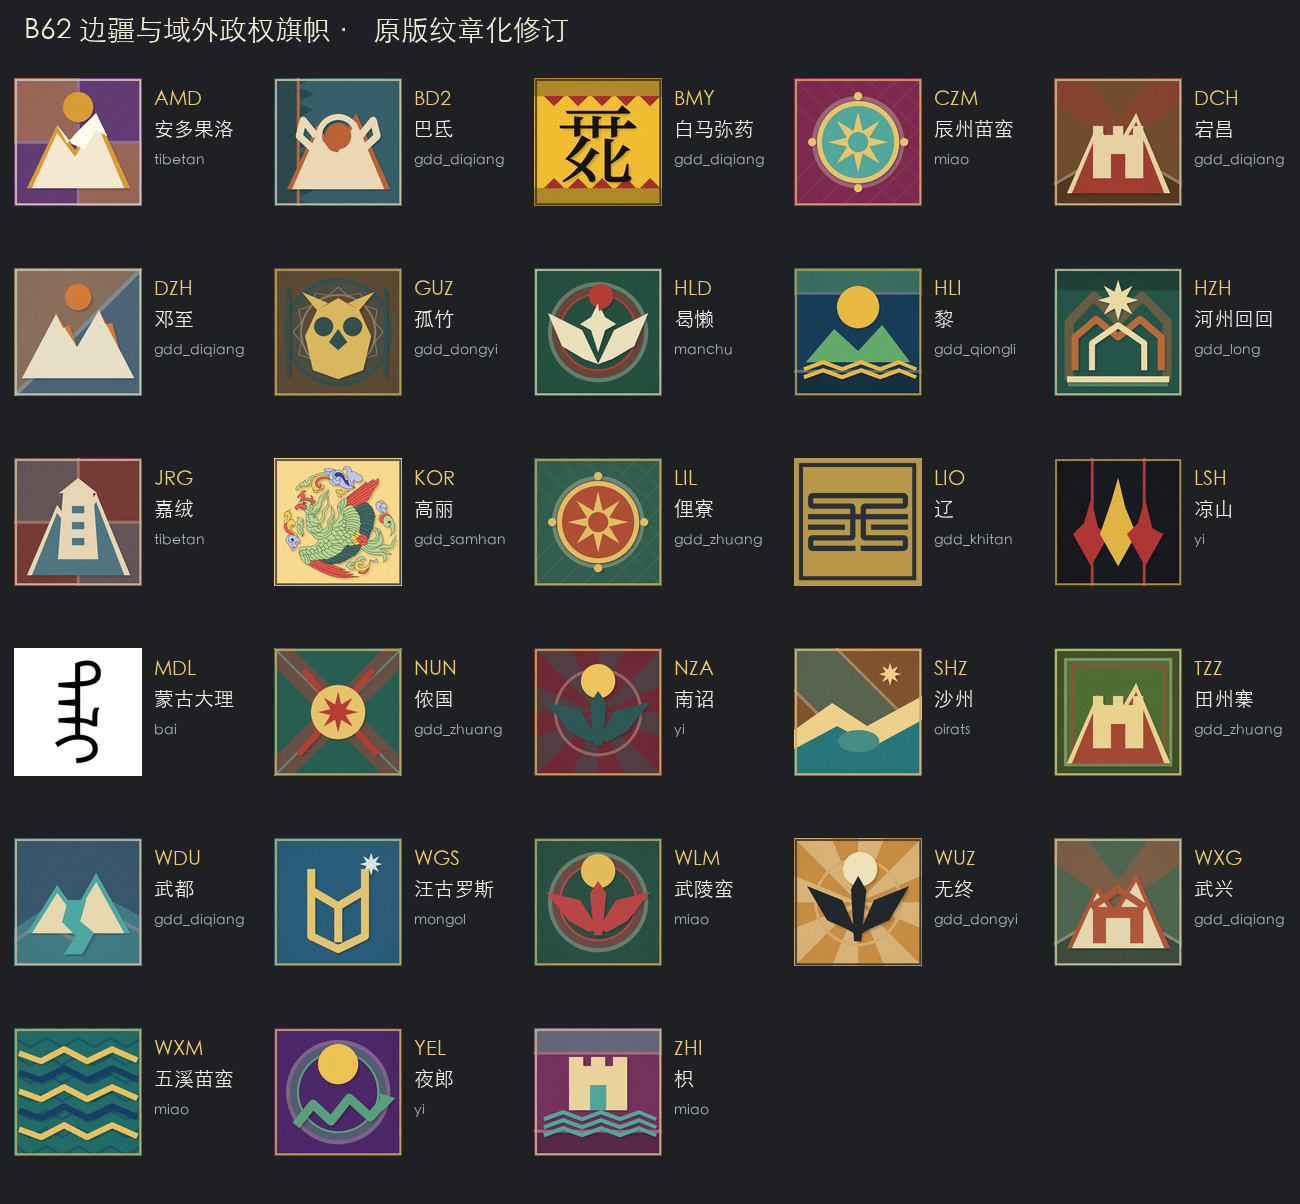
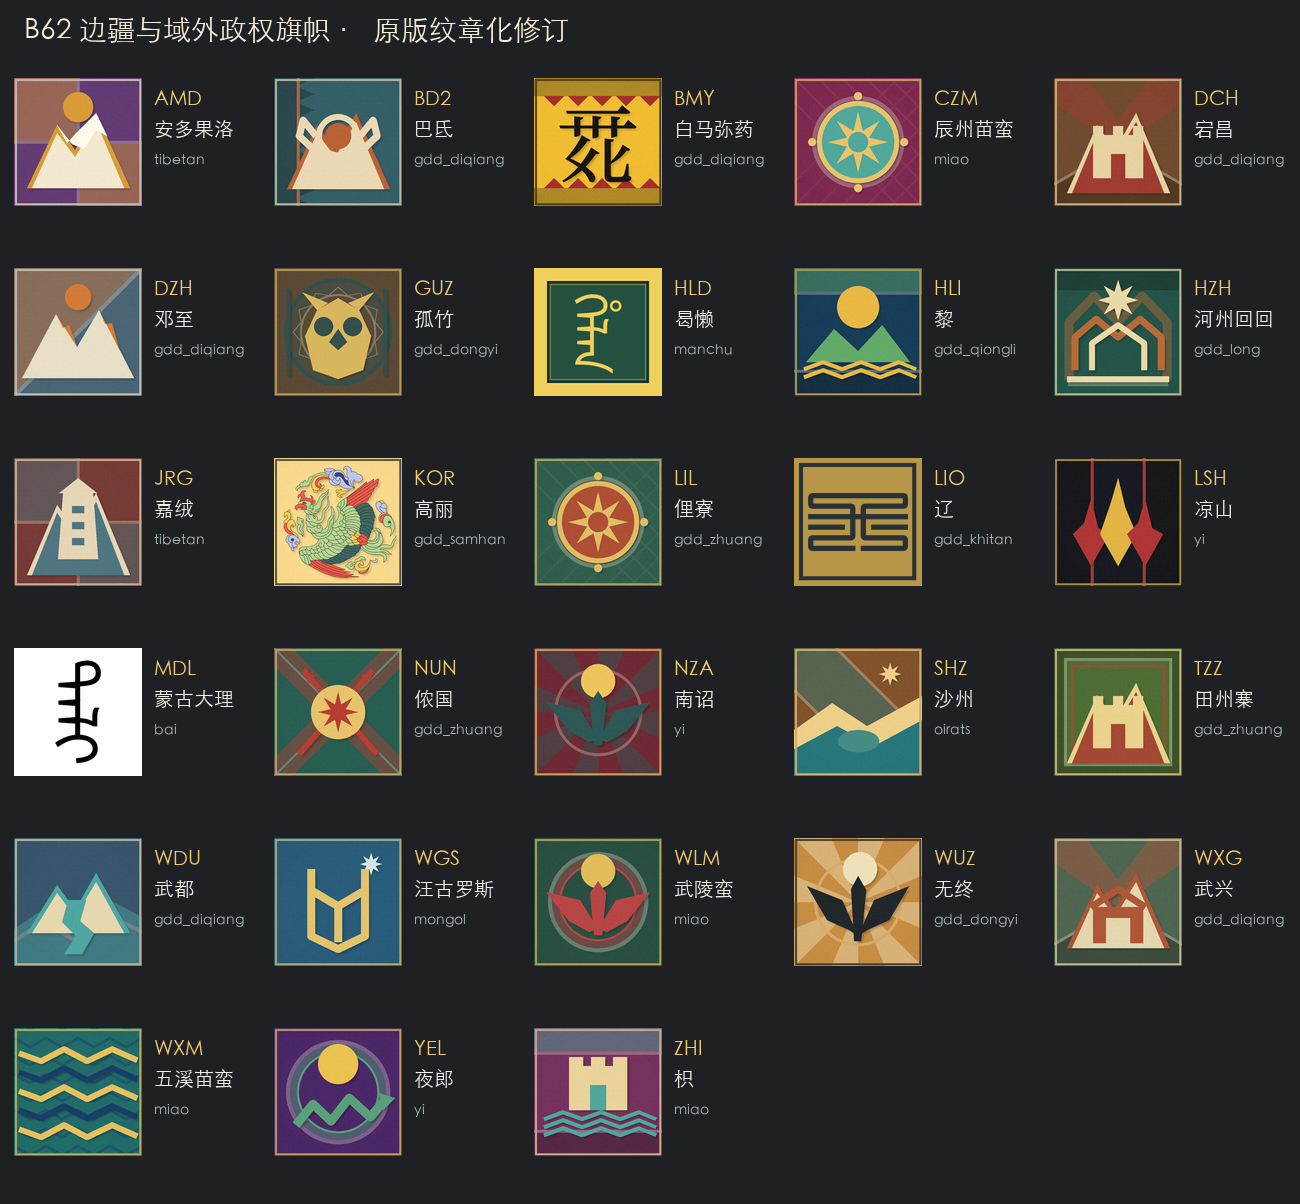
style(flags): give Helan a Manchu wordmark

Changed region(s): [[0.4, 0.2151, 0.5231, 0.338]]

diff --git a/tools/generate_frontier_polity_flags.py b/tools/generate_frontier_polity_flags.py
@@ -32,6 +32,7 @@ ASSETS = ROOT / "tools/assets/frontier_flags"
 GORYEO_REFERENCE = ASSETS / "goryeo_phoenix_reference.png"
 TANGUT_XIA_MASK = ASSETS / "tangut_xia_u17d32_mask.png"
 MONGOLIAN_DALI_MASK = ASSETS / "mongolian_dali_mask.png"
+MANCHU_HELAN_MASK = ASSETS / "manchu_helan_mask.png"
 SCALE = 4
 SIZE = 128
 
@@ -44,7 +45,7 @@ DESIGNS = {
     "DCH": {"name": "宕昌", "culture": "gdd_diqiang", "motif": "mountain_fort", "bg": "704b2f", "ink": "e5d2a0", "accent": "9f3c32", "reason": "层山上的石寨，表现宕昌羌的谷地堡寨。"},
     "DZH": {"name": "邓至", "culture": "gdd_diqiang", "motif": "twin_peaks", "bg": "4b6476", "ink": "e6dfc5", "accent": "d27b38", "reason": "双峰夹日，取邓至位于岷山交通孔道之意。"},
     "GUZ": {"name": "孤竹", "culture": "gdd_dongyi", "motif": "bronze_owl", "bg": "5b4934", "ink": "d8b65d", "accent": "324f4b", "reason": "商式青铜鸮与竹节边纹，表现孤竹的殷商遗绪。"},
-    "HLD": {"name": "曷懒", "culture": "manchu", "motif": "falcon", "bg": "244f3e", "ink": "e9dfbb", "accent": "b33c35", "reason": "海东青、森林绿与赤日，表现东北女真猎鹰传统。"},
+    "HLD": {"name": "曷懒", "culture": "manchu", "motif": "manchu_helan", "bg": "24513f", "ink": "f0cf5a", "accent": "132f27", "reason": "仿原版建州、海西女真旗的框式构图，以竖排满文“ᡥᡝᠯᠠᠨ”（Helan／曷懒）取代猎鹰图腾。"},
     "HLI": {"name": "黎", "culture": "gdd_qiongli", "motif": "sun_waves", "bg": "173c57", "ink": "e8b843", "accent": "63a96a", "reason": "黎锦式日轮、海浪与五指山色带。"},
     "HZH": {"name": "河州回回", "culture": "gdd_long", "motif": "caravan_star", "bg": "245348", "ink": "ead9a5", "accent": "b66a38", "reason": "八角星、河桥与商路门廊，表现河州回回的河湟商贸共同体。"},
     "JRG": {"name": "嘉绒", "culture": "tibetan", "motif": "stone_tower", "bg": "753b34", "ink": "e5d5b4", "accent": "4e7580", "reason": "嘉绒碉楼立于横断山地。"},
@@ -73,7 +74,7 @@ DESIGNS = {
 FIELDS = {
     "AMD": "quartered", "BD2": "serrated", "BMY": "tangut",
     "CZM": "textile_roundel", "DCH": "chevron", "DZH": "split",
-    "GUZ": "brocade_roundel", "HLD": "sun_disc", "HLI": "horizontal",
+    "GUZ": "brocade_roundel", "HLD": "manchu_frame", "HLI": "horizontal",
     "HZH": "arched", "JRG": "quartered", "KOR": "reference",
     "LIL": "textile_roundel", "LIO": "legacy_exact", "LSH": "vertical",
     "MDL": "plain_exact", "NUN": "saltire", "NZA": "sunburst",
@@ -413,6 +414,20 @@ def mongolian_dali_flag() -> Image.Image:
     return image.resize((SIZE, SIZE), Image.Resampling.LANCZOS)
 
 
+def manchu_helan_flag(bg, ink, accent) -> Image.Image:
+    """Render Helan in the framed wordmark style of vanilla Jurchen flags."""
+    if not MANCHU_HELAN_MASK.exists():
+        raise FileNotFoundError(f"missing Manchu Helan glyph mask: {MANCHU_HELAN_MASK}")
+    mask = Image.open(MANCHU_HELAN_MASK).convert("L")
+    image = Image.new("RGB", mask.size, ink)
+    draw = ImageDraw.Draw(image)
+    inset = 13 * SCALE
+    draw.rectangle((inset, inset, image.width - inset - 1, image.height - inset - 1), fill=bg, outline=accent, width=2 * SCALE)
+    draw.rectangle((inset + 3 * SCALE, inset + 3 * SCALE, image.width - inset - 3 * SCALE - 1, image.height - inset - 3 * SCALE - 1), outline=mix(bg, ink, 0.42), width=SCALE)
+    image.paste(ink, (0, 0, mask.width, mask.height), mask)
+    return image.resize((SIZE, SIZE), Image.Resampling.LANCZOS)
+
+
 def goryeo_phoenix_layer() -> Image.Image:
     """Extract the connected parchment background from the user reference."""
     if not GORYEO_REFERENCE.exists():
@@ -479,6 +494,9 @@ def render_flag(tag: str, design: dict[str, str]) -> Image.Image:
         return mongolian_dali_flag()
 
     bg, ink, accent = (rgb(design[key]) for key in ("bg", "ink", "accent"))
+    if design["motif"] == "manchu_helan":
+        return manchu_helan_flag(bg, ink, accent)
+
     image = Image.new("RGBA", (SIZE * SCALE, SIZE * SCALE), (*bg, 255))
     draw_field(image, design["field"], bg, ink, accent)
 
@@ -571,6 +589,7 @@ def run(check: bool) -> None:
             "goryeo": "tools/assets/frontier_flags/goryeo_phoenix_reference.png (user supplied)",
             "tangut_xia": "U+17D32 / Li Fanwen dictionary no. 0071",
             "mongolian_dali": "ᠳᠠᠯᠢ; HarfBuzz-shaped Noto Sans Mongolian fixed mask",
+            "manchu_helan": "ᡥᡝᠯᠠᠨ; phonetic Helan rendering shaped with HarfBuzz, framed after vanilla MJZ/MHX flags",
             "liao": "B57 Khitan Large Script U+E23D / ninefold-seal U+F012 asset",
         },
         "flags": DESIGNS,

diff --git a/docs/DECISION_LOG.md b/docs/DECISION_LOG.md
@@ -148,7 +148,7 @@
 
 - **状态**：已实现并通过静态资产校验。
 - **视觉边界**：诸夏列国继续使用小篆印章旗；边疆与域外政权改用山川、日月、动物图腾、铜鼓、织锦、塔木加和地方建筑，不再共享叉形占位旗。
-- **世界观特例**：箕子朝鲜是奉周礼的独立诸夏成员，保留其“箕”字礼制旗；高丽作为三韩后继政权纳入域外纹样旗。辽在 D-019 初稿后一度改用契丹白鹿，现已按用户裁决恢复 B57 的契丹大字九叠篆官印旗；曷懒使用女真猎鹰。
+- **世界观特例**：箕子朝鲜是奉周礼的独立诸夏成员，保留其“箕”字礼制旗；高丽作为三韩后继政权纳入域外纹样旗。辽在 D-019 初稿后一度改用契丹白鹿，现已按用户裁决恢复 B57 的契丹大字九叠篆官印旗；曷懒使用仿原版女真旗构图的满文旗。
 - **维护方式**：二十八面 128×128、24位 RGB TGA 由 `tools/generate_frontier_polity_flags.py` 确定性生成；B61 原始方案保留为历史快照，当前成品与清单由 D-019 的 B62 修订取代。
 
 ### D-018：地图开发分支彻底退役旧封邦属国
@@ -167,7 +167,8 @@
 - **白马弥药**：按党项弥药政权解释，使用西夏文“𗴲”（U+17D32，《夏汉字典》序号0071，“夏”）为中央徽记，不再使用泛化白马图腾。
 - **蒙古大理**：使用纯白底黑色传统蒙古文“ᠳᠠᠯᠢ”（Dali／大理）；文字先作连写塑形，再竖排固化为固定蒙版。
 - **辽**：恢复 B57 的契丹大字九叠篆官印旗；B62 生成器直接复用旧旗数据，防止后续批量重生时再次被白鹿纹样覆盖。
-- **维护方式**：旗帜、B62联系表和机读清单继续由 `tools/generate_frontier_polity_flags.py` 一次生成；高丽原图、西夏文字形与蒙古大理文字形蒙版作为固定源资产保存在 `tools/assets/frontier_flags/`，辽旗复用 B57 生成器中的固定契丹字形数据。
+- **曷懒**：取消海东青图腾，改用金框森林绿地和竖排满文“ᡥᡝᠯᠠᠨ”（Helan／曷懒）；布局参考原版建州、海西女真旗。
+- **维护方式**：旗帜、B62联系表和机读清单继续由 `tools/generate_frontier_polity_flags.py` 一次生成；高丽原图、西夏文字形、蒙古大理与曷懒满文字形蒙版作为固定源资产保存在 `tools/assets/frontier_flags/`，辽旗复用 B57 生成器中的固定契丹字形数据。
 
 ## 尚待正式决定
 

diff --git a/planning/frontier_polity_flags_b62/README.md b/planning/frontier_polity_flags_b62/README.md
@@ -10,6 +10,7 @@
 - 白马弥药按党项弥药政权处理，中央徽记改为西夏文 `𗴲`（U+17D32，《夏汉字典》序号 0071，“夏”）。生成器读取已经固化的字形蒙版，不依赖运行机器安装西夏文字体。
 - 蒙古大理采用纯白底、黑色传统蒙古文 `ᠳᠠᠯᠢ`（Dali／大理）。字形先经 HarfBuzz 连写塑形，再转为传统竖排并固化为蒙版，避免显示为互不相连的孤立字母。
 - 辽恢复 B57 的契丹大字九叠篆官印旗；不再使用 B61/B62 初稿的契丹白鹿图案，且生成结果与原旗逐字节一致。
+- 曷懒取消猎鹰图腾，改用金框、森林绿地和竖排满文 `ᡥᡝᠯᠠᠨ`（Helan／曷懒）；框式布局直接参考原版建州女真、海西女真旗，但不复制二者国名或配色。
 - 全部成品仍为 128×128、24 位 RGB TGA；除按裁决保持纯白的蒙古大理和复用旧旗的辽外，其余旗帜以固定种子加入轻微染料／布纹变化。重复生成的字节必须完全一致。
 
 参考与资产：
@@ -19,6 +20,7 @@
 - 高丽原图：`tools/assets/frontier_flags/goryeo_phoenix_reference.png`，用户提供。
 - 西夏文字形：`tools/assets/frontier_flags/tangut_xia_u17d32_mask.png`，由 Noto Serif Tangut 生成；字体采用 SIL Open Font License 1.1。
 - 蒙古大理文字形：`tools/assets/frontier_flags/mongolian_dali_mask.png`，由 Noto Sans Mongolian + HarfBuzz 生成；`ᠳᠠᠯᠢ` 的拼写依据[蒙古国国家语言政策委员会蒙古语大词典](https://www.mongoltoli.mn/dictionary/detail/31365)。
+- 曷懒满文字形：`tools/assets/frontier_flags/manchu_helan_mask.png`，由 Noto Sans Mongolian + HarfBuzz 按满文规则连写并转为竖排；固定蒙版避免运行机器缺少满文字体。
 - 辽国字形沿用 `tools/map_pipeline/apply_b57_changsha_khitan.py` 中的 B57 固定蒙版，避免两套生成器再次互相覆盖；字形考据见 [BabelStone：Khitan Seals](https://www.babelstone.co.uk/Blog/2012/10/khitan-seals.html)。
 
 生成与校验：
